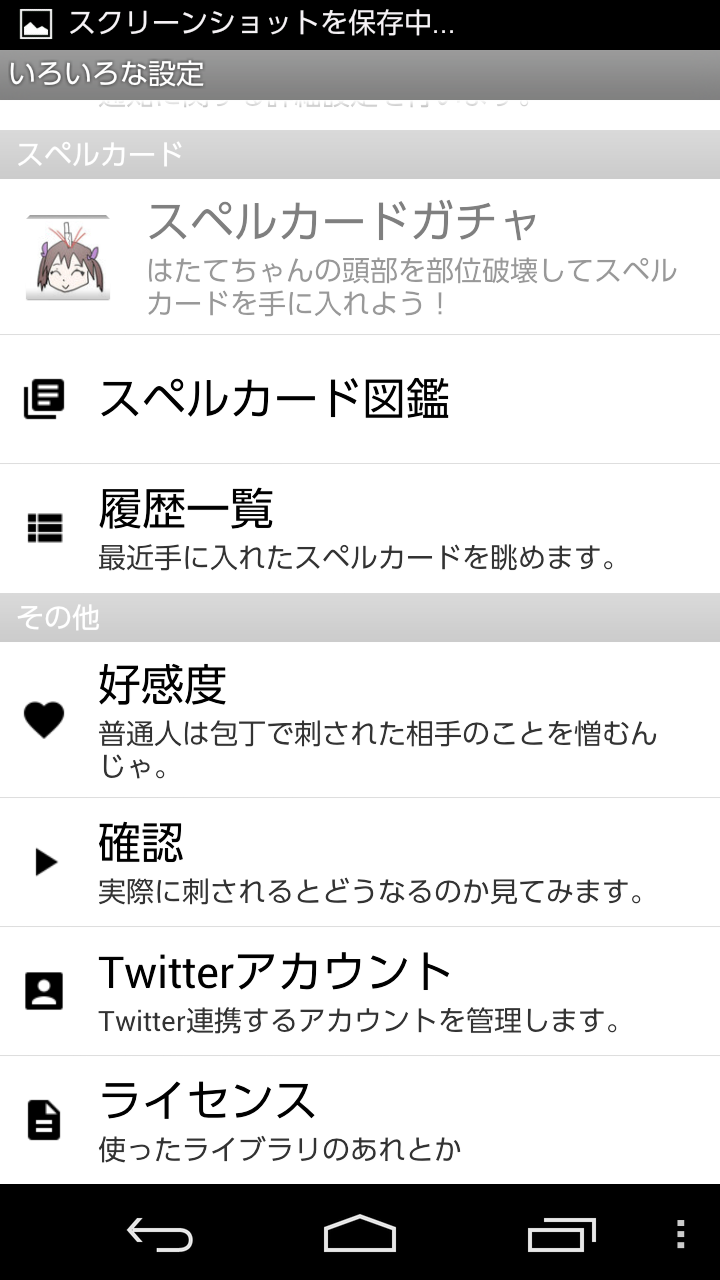
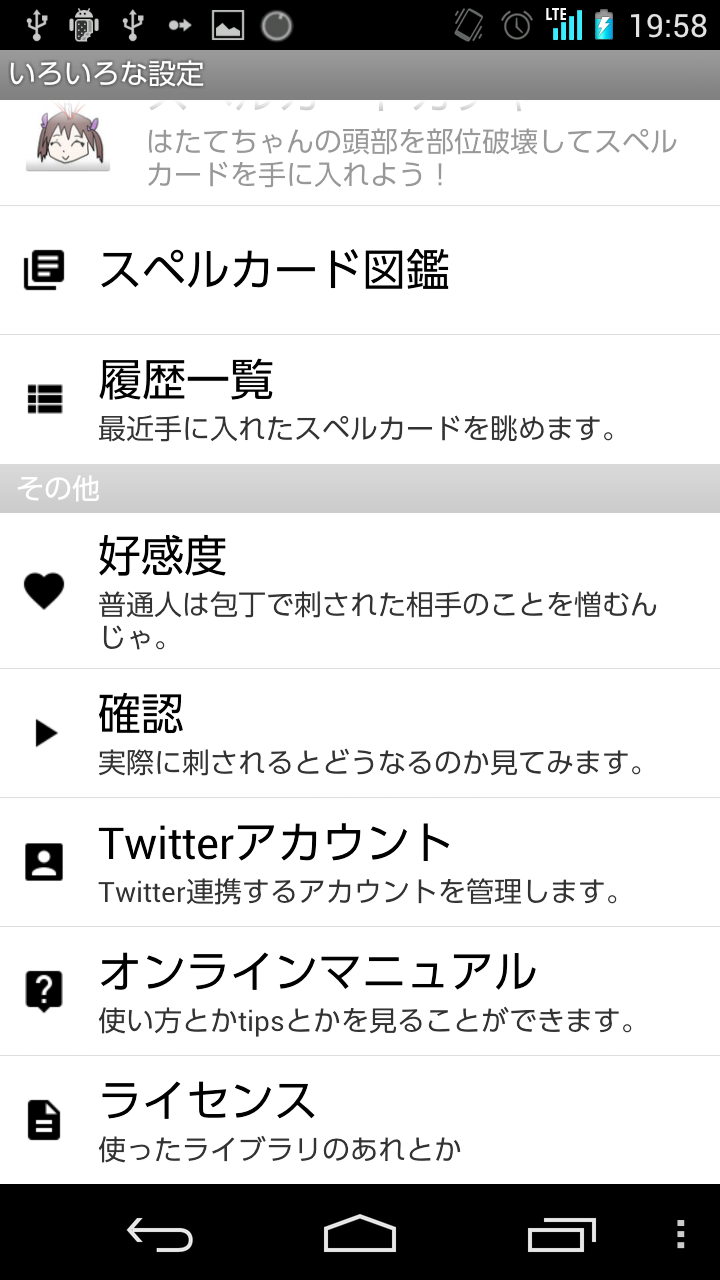
ver 1.2.1

diff --git a/Hatate/activity/main.md b/Hatate/activity/main.md
@@ -12,8 +12,9 @@
     6. [スペルカード取得履歴一覧](#guide-spellcard-history)
     7. [好感度](#guide-love)
     8. [確認機能](#guide-preview)
-    9. [ライセンス](#guide-license)
-    10. [tips](#guide-tips)
+    9. [オンラインマニュアル](#guide-online-manual)
+    10. [ライセンス](#guide-license)
+    11. [tips](#guide-tips)
 3. [（開発者向け）機能概要](#summary)
 4. [（開発者向け）ソース](#source)
 </index>
@@ -62,6 +63,8 @@
 
 面白半分でインストールした人がこれを押して満足し、さくっとアンインストール出来るようにするためここにも置いてあります。
 
+###guide-online-manual
+[このマニュアル](../)を見ることができます。
 
 ###guide-license
 [ライセンス画面](index.html?md=license)に移動します。

diff --git a/Hatate/activity/gacha.md b/Hatate/activity/gacha.md
@@ -11,7 +11,7 @@
 </index>
 
 ##layout
-TODO:stub
+[![ss-gacha-0](./images/ss-gacha-0.png)](./images/ss-gacha-0.png)
 
 ##guide
 ###guide-rule
